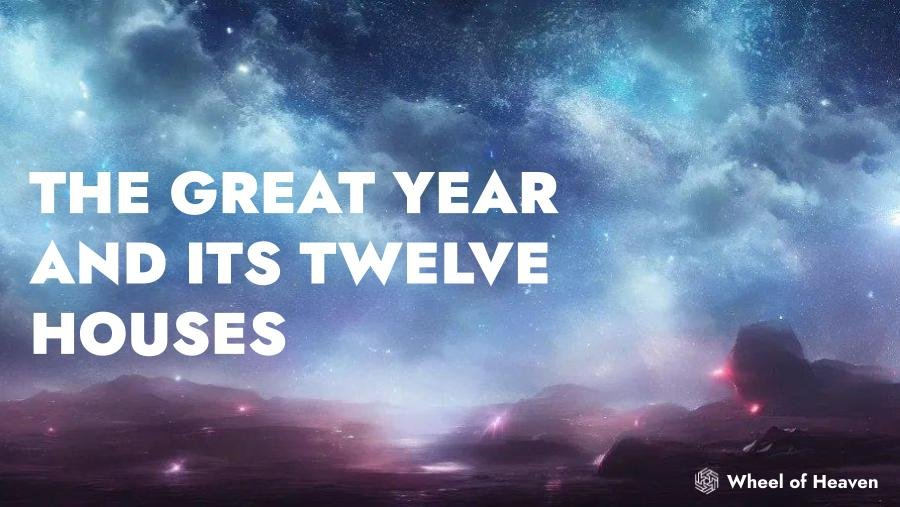
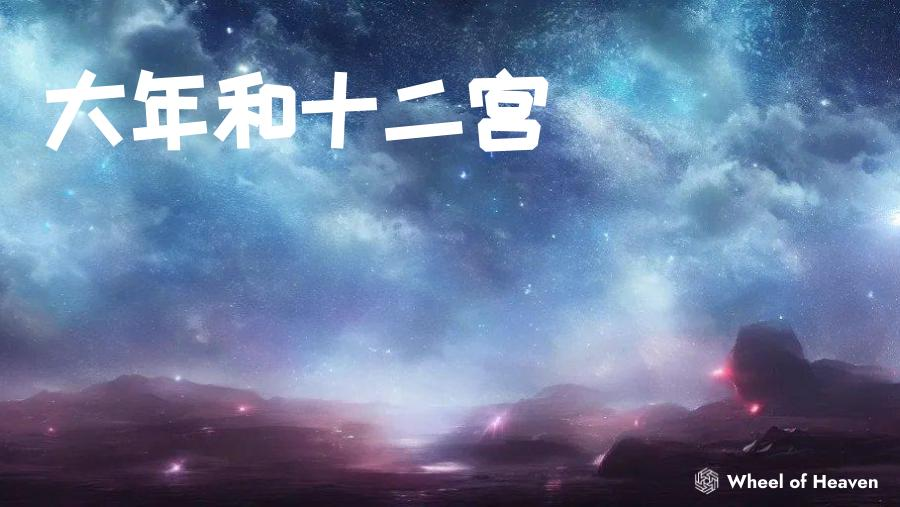
adds i18n translation into Chinese of the twelve houses article

diff --git a/content/zh/articles/the-great-year-and-its-twelve-houses/index.md b/content/zh/articles/the-great-year-and-its-twelve-houses/index.md
@@ -1,7 +1,7 @@
 ---
-title: "The Great Year and Its Twelve Houses"
-description: "The third key motion of the Earth next to the other two cycles responsible for the day and the year is what is known as the Great Year. Its cycle, also called the precession of the equinoxes, lasts 25'920 years. By dividing that cycle in 12 houses of 2’160 years each, you would be given the key to understand the purpose of the zodiac being a time marker. This knowledge is ancient and its remnants are known today as astrology."
-excerpt: "The third key motion of the Earth next to the other two cycles responsible for the day and the year is what is known as the Great Year. Its cycle, also called the precession of the equinoxes, lasts 25'920 years. By dividing that cycle in 12 houses of 2’160 years each, you would be given the key to understand the purpose of the zodiac being a time marker. This knowledge is ancient and its remnants are known today as astrology."
+title: "大年和十二宫"
+description: "除了地球的日循环和年循环，地球的第三个重要运动就是被称为大年的循环。它的周期，也被称为岁差，持续25,920年。将这个周期分为12个时代，每个时代持续2,160年，你将获得理解黄道作为时间标记的关键。这种知识是古老的，其残余如今被称为占星术。"
+excerpt: "除了地球的日循环和年循环，地球的第三个重要运动就是被称为大年的循环。它的周期，也被称为岁差，持续25,920年。将这个周期分为12个时代，每个时代持续2,160年，你将获得理解黄道作为时间标记的关键。这种知识是古老的，其残余如今被称为占星术。"
 date: 2023-07-07T00:00:00+00:00
 lastmod: 2023-07-07T00:00:00+00:00
 draft: false
@@ -14,79 +14,80 @@ pinned: false
 homepage: false
 ---
 
-{{< alert icon="👉" text="Disclaimer: This is a revisited and slightly reworked article taken from an unmaintained blog of Zara Zinsfuss, a main contributor of Wheel of Heaven. The original blog article can still be visited on his Gitlab Pages website: <a href='https://zarazinfuss.gitlab.io/blog/posts/the-great-year-and-its-twelve-houses/'>The Great Year and Its Twelve Houses | zara◇zinsfuss</a>" />}}
+{{< alert icon="👉" text="声明：本文是对Zara Zinsfuss的未维护博客的重新思考和略微改编。Zara Zinsfuss是Wheel of Heaven的主要贡献者之一。原始博客文章仍可在他的Gitlab Pages网站上访问：<a href='https://zarazinfuss.gitlab.io/blog/posts/the-great-year-and-its-twelve-houses/'>The Great Year and Its Twelve Houses | zara◇zinsfuss</a>" />}}
 
-## The Great Year
+## 大年
 
-Whenever we want to understand our place in the universe, we gaze into the deep night sky, losing ourselves in the myriad of stars within our sight. It seems that the cosmic activities unfolding above us make up a grand narrative, of which we, the inhabitants of planet Earth, are merely a subscene.
+每当我们想要理解我们在宇宙中的位置时，我们凝视深邃的夜空，在我们的视野中迷失在无数的星星中。似乎在我们上方展开的宇宙活动构成了一幅宏伟的叙事，我们地球居民仅是其中的一个场景。
 
-Thus, it's natural for any Earthly dweller to initiate inquiries about their location and significance in relation to the vast expanse of space and time.
+因此，对于任何地球居民来说，开始对他们在广袤的时空中的位置和意义进行探索是自然而然的。
 
-Our celestial understanding begins with acknowledging the **three key motions** of our planet Earth:
+我们对天体的理解始于承认地球的**三个重要运动**：
 
-1. Rotation around its axis
-2. Revolution around the Sun
-3. Precession of its axis
+1. 围绕自身轴的旋转
+2. 围绕太阳的公转
+3. 轴心的岁差
 
-The first two motions are intrinsically part of our daily life as we experience their effects in tangible ways. However, the third motion, which will be our primary focus, is less remembered despite its significance. All three motions exhibit recurrent patterns, repeating over time, forming cycles each with a specific duration or **period**.
+前两个运动在我们的日常生活中是固有的，我们通过切身体验它们的影响。然而，尽管其重要性，第三个运动却很容易被遗忘。这三个运动都表现出周期性的模式，随着时间的推移重复，形成具有特定持续时间或**周期**的循环。
 
-| Earthly Motion | Period (approx.) | Common name |
-| -              | -                | -           |
-| (1) Rotation   | 24 [h]           | Day / Night |
-| (2) Revolution | 365 [d]          | Year        |
-| (3) Precession | 26'000 [y]       | Great Year  |
+| 地球运动 | 周期（约）   | 常用名称   |
+| -        | -           | -         |
+| (1) 旋转 | 24小时     | 白天/黑夜 |
+| (2) 公转 | 365天      | 年         |
+| (3) 岁差 | 26,000年    | 大年       |
 
-The day-night cycle (1) is a result of the Earth's rotation and impacts life significantly. For practical purposes, we divide a day into two equal segments of `12 hours`, aligning with the [Circadian rhythm](https://en.wikipedia.org/wiki/Circadian_rhythm) that regulates wakefulness and sleep for many mammals, including humans.
+日夜循环（1）是地球自转的结果，对生命有着重大影响。为了实际目的，我们将一天分为两个相等的`12小时`段，与调节包括人类在内的许多哺乳动物的觉醒和睡眠的[昼夜节律](https://en.wikipedia.org/wiki/Circadian_rhythm)相一致。
 
-The second cycle, the year (2), is observable through the changing seasons of spring, summer, autumn, and winter, especially in higher and lower latitudes. We typically divide the solar year into twelve parts, or **months**, each approximately `30.5 days` long.
+第二个周期，一年（2），可以通过春夏秋冬的季节变化来观察，尤其是在高纬度和低纬度地区。我们通常将阳历年份分为十二个部分，或**月份**，每个月份约为`30.5天`。
 
-The lunar cycle, though not covered in detail here, is interesting to note. It occurs almost precisely 13 times in a year, with each **lunar month** lasting slightly over `28 days`. This divergence between lunar and solar years leads to interesting questions regarding our calendar system.
+虽然此处没有详细讨论月亮的循环，但需要注意的是，月亮几乎每年出现13次，每个**月相周期**略长于`28天`。这种农历年和阳历年之间的差异引发了关于我们的日历系统的有趣问题。
 
-The third cycle, lesser-known yet equally significant, is the Earth's **axial precession** or **precession of the equinoxes**. Known also as **the Great Year** (3), it takes between `25,772` and `25,920 years` to complete a full cycle.
+第三个循环，虽然不太为人所知，但同样重要，那就是地球的**岁差**或**黄道岁差**。它也被称为**大年**（3），一个完整的周期需要花费`25,772`到`25,920年`的时间。
 
-[Precession]({{< relref "wiki/encyclopedia/precession.md" >}}) is a complex motion, difficult to describe without visual aids. For context, to show that we're not making this up, let's look at [Merriam-Webster](https://www.merriam-webster.com/dictionary/precession) and how they define it the notion of precession:
+[岁差]({{< relref "wiki/encyclopedia/precession.md" >}})是一个复杂的运动，难以在没有视觉辅助的情况下描述。为了提供背景，让我们来看看[Merriam-Webster](https://www.merriam-webster.com/dictionary/precession)对岁差的定义：
 
-> a comparatively slow gyration of the rotation axis of a spinning body about another line intersecting it so as to describe a cone[^merriam]
+> 某一旋转体的旋转轴相对于相交的另一条线进行相对较慢的回转，以描述一个圆锥[^merriam]
 
-In the case of planets such as Earth, one needs to specify that ones means the so-called precession of the equinoxes. Britannica defines the precession of the equinoxes as follows:
+对于像地球这样的行星，需要指明指的是所谓的黄道岁差。《大英百科全书》对黄道岁差的定义如下：
 
-> ... motion of the equinoxes along the ecliptic (the plane of Earth’s orbit) caused by the cyclic precession of Earth’s axis of rotation.[^britannica]
+> ... 平动是指地球的岁差沿着黄道（地球轨道的平面）的运动所引起的赤道点的运动。[^britannica]
 
-The following figure elucidates axial precession, depicting the Earth's rotation axis **gyrating** in a circular pattern:
+下图阐明了岁差，描绘了地球的旋转轴以循环方式**回转**的情况：
 
-{{< figure src="images/precession_schema.jpg" caption="Fig. 1 - Axial precession" >}}
+{{< figure src="images/precession_schema.jpg" caption="图1 - 岁差" >}}
 
-The direction of precession (circular arrow at the top) counteracts the Earth's rotational spin (circular arrows around the globe). These conflicting rotations produce a peculiar dance in our heavens. For an Earth-bound observer, this means the daily dance of the sky against the constellations counterpoints the slow waltz due to precession across its `25,920-year` cycle.
+岁差的方向（顶部的圆形箭头）与地球的自转（环绕地球的圆形箭头）相抵消。这些相互冲突的旋转在我们的天空中产生了独特的舞蹈。对于地球上的观察者来说，这意味着天空对星座的日常舞蹈与岁差引起的缓慢华尔兹相互交织，而岁差的周期为`25,920年`。
 
-The implications of this precession are immense and serve as the bedrock of our understanding of time and astrological ages. As we journey through the Great Year, the backdrop of the stars shifts gradually. This cosmic shift, though imperceptible within a human lifespan, has profound implications over thousands of years.
+岁差的影响是巨大的，并且它构成了我们对时间和占星时代的理解的基础。在我们度过大年的旅程中，星星的背景逐渐变化。这种宇宙的转变虽然在人类寿命内难以察觉，但在数千年的时间尺度上具有深远的影响。
 
-In the next section, we'll delve deeper into these ramifications, unravelling the astrological epochs that punctuate our celestial journey through the Great Year and their impact on our sociocultural evolution.
+在下一节中，我们将深入探讨这些影响，揭示穿插在我们通过大年的天体旅程中的占星时代及其对我们社会文化演变的影响。
 
-[^merriam]: Merriam-Webster is a reputable and widely recognized American publisher known for producing dictionaries and reference books. According to their definition, precession refers to the slow gyration of a spinning body's rotation axis around another intersecting line, creating a cone-like motion. It is characterized by a gradual rotation that forms a cone shape over time. See here for more: [precession (noun) | Merriam-Webster](https://www.merriam-webster.com/dictionary/precession)
+[^merriam]: Merriam-Webster是一家知名的美国出版商，以出版词典和参考书籍而闻名。根据他们的定义，岁差指的是旋转体的旋转轴相对于相交的另一条线进行相对较慢的回转，创造出一个类似圆锥的运动。详情请参阅：[precession (noun) | Merriam-Webster](https://www.merriam-webster.com/dictionary/precession)
 
-[^britannica]: The precession of the equinoxes refers to the cyclic motion of the equinox points along Earth's orbital plane caused by the gradual shift in Earth's axis of rotation, as explained by Britannica, a renowned and authoritative encyclopedia publisher that provides comprehensive and reliable information on a wide range of subjects. See here for more: [precession of the equinoxes | Britannica](https://www.britannica.com/science/precession-of-the-equinoxes)
+[^britannica]: 黄道岁差是指地球绕自身轴的渐进的旋转中，赤道点沿地球轨道平面的周期性移动。根据权威的百科全书《大英百科全书》的解释，岁差是由于地球自转轴逐渐移动而导致赤道点的周期性移动。详情请参阅：[precession of the equinoxes | Britannica](https://www.britannica.com/science/precession-of-the-equinoxes)
 
-## The Twelve Houses
+## 十二宫
 
-With the understanding of the [three key motions of the Earth](#the-great-year), we recognize that these celestial rhythms provide an intricate frame of reference that enables us to conceptualize and measure time. These cyclical motions share several intriguing characteristics:
+通过理解[地球的三个重要运动](#大年)，我们认识到这些天体律动提供了一个复杂的参照框架，使我们能够概念化和测量时间。这些周期性的运动具有几个引人入胜的特点：
 
-+ **Definitive periodicity**: These motions, untouched by human intervention, depict a recurrent cosmic choreography, repeating the same patterns in a rhythmic cycle that is bound to start again once completed.
-+ **Consistency of time elapse**: Because of this inherent periodicity, we can expect the exact same amount of time to elapse for a given cycle. This offers a degree of predictability and reliability unmatched by human-made systems.
-+ **Granularity**: The natural segmentation of a full cycle provides smaller, discrete units of time, enabling us to perceive time in digestible bites, rather than overwhelming, continuous stretches.
++ **明确的周期性**：这些运动未受人为干预，呈现出重复的宇宙编舞，以韵律循环的方式重复相同的模式，一旦完成就必然重新开始。
++ **时间流逝的一致性**：由于这种固有的周期性，我们可以期望在给定的周期中时间的流逝是完全相同的。这提供了一种预测性和可靠性，是人造系统所无法比拟的。
++ **时间的细粒度**：完整周期的自然分段提供了更小的离散时间单位，使我们能够以可消化的片段感知时间，而不是压倒性和连续的时间跨度。
 
-These harmonious cosmic rhythms hold a profound sense of mystery and grandeur that exceeds our typical human scale of perception. Thus, using these celestial motions as a time-keeping framework becomes intuitively appealing, particularly because all three motions exhibit intervals that complement each other extraordinarily well.
+这些和谐的宇宙律动蕴含着一种深刻的神秘感和宏伟感，超出了我们通常人类感知的尺度。因此，将这些天体运动作为一个时间测量框架具有直观吸引力，特别是因为这三个运动都具有相互补充的间隔。
 
-The day, a product of the Earth's rotation, becomes a manageable unit to count a year, which in turn, stemming from the Earth's revolution, offers a feasible measure to gauge the enormity of the Great Year, a result of precession.
+由地球的自转产生的一天成为一个可计数的单位，而由地球的公转产生的一年，则提供了一种切实可行的度量方法，用于衡量大年的巨大性。
 
-This interlocking of time scales gives rise to an intriguing pattern: the division of the rotation and revolution cycles into **12 units** each. This division, while seemingly arbitrary, has far-reaching implications when applied to the precession cycle or the **Great Year**.
+这种时间尺度的互锁引发了一个有趣的模式：将自转和公转周期分成**12个单位**。这种分割，虽然看似任意，但在应用于岁差周期或**大年**时具有深远的影响。
 
-Dividing the **Great Year** by twelve gives birth to a new time unit: the Great Month, each spanning a staggering `2,160 years`. This unit embodies a vast stretch of time, dwarfing our conventional year and providing a measure for time spans that cross the threshold of millennia.
+将**大年**分为十二等分，诞生了一个新的时间单位：大月，每个大月跨越惊人的`2,160年`。这个单位体现了一个巨大的时间跨度，使我们传统的年份相形见绌，并为跨越千年门槛的时间范围提供了一个度量。
 
-The concept of the [Great Month]({{< relref "wiki/encyclopedia/great-month.md" >}}) offers a larger temporal framework that encompasses the rise and fall of civilizations, the evolution of cultures and ideas, and the progress of scientific understanding. It gives us a perspective on time that goes beyond our personal or even historical experience, reaching into a scale that we usually reserve for geological or astronomical events.
+[大月](#wiki/encyclopedia/great-month)的概念提供了一个更大的时间框架，涵盖了文明的兴衰、文化和思想的演进以及科学理解的进步。它让我们拥有了一个超越个人甚至历史经验的时间视角，进入到通常我们只用于地质或天文事件的尺度中。
 
-Just as the daily and annual cycles are integral to our understanding of time, the Great Month could prove to be an essential tool for understanding longer-term trends and cycles. As our knowledge of our own (ancient) history, the constitution of planet Earth, and astronomical patterns continues to grow, we may find that the concept of the Great Month helps us make sense of patterns and events that span thousands of years, providing a broader context for understanding our place in the cosmos.
+就像日常和年度周期对我们理解时间的重要性一样，大月可能成为理解长期趋势和周期的重要工具。随着我们对我们自己（古代的）历史、地球的构成和天文模式的认识不断增长，我们可能会发现大月的概念有助于我们理解跨越数千年的模式和事件，为我们在宇宙中的位置提供更广泛的背景。
 
-This broader framework of time, provided by the twelve houses of the Great Year, each a Great Month, enables us to comprehend vast stretches of time that would otherwise seem incomprehensible. It is a cosmic calendar that places our transient existence into a grand chronicle of the universe.
+由大年的十二个宫所提供的这种更广泛的时间框架，每个宫是一个大月，使我们能够理解那些本来似乎难以理解的广阔时间跨度。这是一个宇宙日历，将我们短暂的存在置于宇宙的宏伟编年史之中。
+
 
 ## Mapping the heavens into constellations
 
